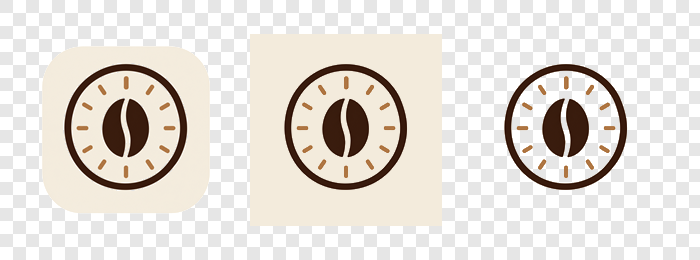
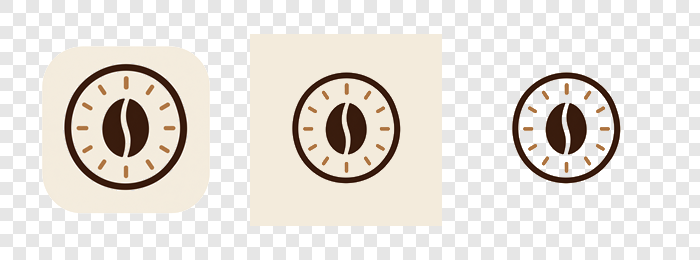
fix: 缩小应用图标中间图案（自适应前景按画布 88% 缩放）
测评反馈「app 图标的图像过大了」。

根因：自适应图标画在 108dp 画布上，但系统只显示中间一块 —— 圆形遮罩只有
72/108 ≈ 67%，MIUI 的圆角方形约 78%。而脚本把原图铺满了整个画布，深棕圆环
占到画布的 ~85%，裁切之后几乎贴到遮罩边缘（四周只剩 2～5%）。

- `make_app_icons.ps1` 新增 `$foregroundKeep = 0.88`：自适应前景把原图缩到
  画布的 88% 再居中，圆环回到 ~75%、四周约 10% 余量。传统图标不动
  （它本来就是整块圆角方块，位置合适）。
- 顺手修掉一个真实缺陷：`Key-OutPixels` 会把**已经透明**的像素按亮度重写成
  不透明（清空的像素是 (0,0,0,0)，亮度 0 → 被判成「很暗的内容」）。
  前景铺满画布时看不出来，一旦缩图，留出的空白就会变成黑方块。
  两个预览脚本里的同一份函数也一并修掉。
- M2.8 设计稿里写的「内容缩放 0.72」其实从没落实，补了一条修订说明。
- 新增两个决策用预览脚本（不进构建）：
  `tool/icon_scale_preview.ps1`（并排 5 档缩放 × 3 种遮罩）、
  `tool/icon_review_sheet.ps1 -Keep <值>`（选定档位的真实遮罩对照表）。
  `tool/README.md` / `docs/DEVELOPMENT.md` §10 记下缩放理由与预览方法。
- 真机复核：新包覆盖安装后，小米 11 的应用信息页图标＝米白圆角方块 + 圆环 + 豆，
  四周留白正常；APK 包体不变（arm64 21.0MB）。

Changed region(s): [[0.39, 0.2462, 0.6, 0.7385], [0.72, 0.2462, 0.9, 0.7385]]

diff --git a/tool/README.md b/tool/README.md
@@ -22,7 +22,7 @@ powershell -NoProfile -ExecutionPolicy Bypass -File .\tool\make_app_icons.ps1
 | 文件 | 用途 |
 |---|---|
 | `android/app/src/main/res/mipmap-*/ic_launcher.png` | 传统图标（48 / 72 / 96 / 144 / 192 px）。把原图里**圆角方块之外的白色页面**抠成透明，留下米白方块 |
-| `android/app/src/main/res/mipmap-*/ic_launcher_foreground.png` | 自适应图标前景（尺寸为传统图标的 2.25 倍）。把米白背景**也**抠成透明，只留圆环 / 豆 / 刻度点 |
+| `android/app/src/main/res/mipmap-*/ic_launcher_foreground.png` | 自适应图标前景（尺寸为传统图标的 2.25 倍）。把米白背景**也**抠成透明，只留圆环 / 豆 / 刻度点；原图按 `$foregroundKeep` 缩小后居中，四周留出系统裁切要吃的空白 |
 | `assets/icon/app_icon_512.png` | 512px 留档与商店用 |
 | `tool/out/app_icon_preview.png` | 复核用对照表（传统图标 / 前景叠米白底 / 前景叠棋盘格） |
 
@@ -30,6 +30,31 @@ powershell -NoProfile -ExecutionPolicy Bypass -File .\tool\make_app_icons.ps1
 前景把亮度 ≥215 的（页面白 + 米白背景）都去掉，中间一段做线性过渡当作抗锯齿边。
 `res/values/colors.xml` 里的 `ic_launcher_background` 取原图的米白 `#F3EBDC`，
 所以自适应图标裁切后的观感和传统图标一致。
+
+### 前景为什么要缩小（`$foregroundKeep = 0.88`）
+
+自适应图标画在 108dp 画布上，但**系统只显示中间一块**：圆形遮罩只有 72/108 ≈ 67%，
+MIUI 的圆角方形大约 78%。原图铺满整个画布时，深棕圆环会占画布的 ~85%，
+裁切之后几乎贴到遮罩边缘（四周只剩 2～5%），看起来就是「图标太大了」。
+
+`$foregroundKeep` 把原图缩到画布的 88% 再居中，圆环回到画布的 ~75%，
+四周留出 10% 左右的余量。传统图标不动（它本来就是整块圆角方块）。
+想换档位就在脚本里改这一个数字，然后用下面的预览脚本看效果。
+
+### 图标预览脚本（决策用，不进构建）
+
+| 脚本 | 输出 | 用途 |
+|---|---|---|
+| `tool/icon_scale_preview.ps1` | `tool/out/icon_scale_candidates.png` | 一次排开 5 个候选缩放比，每个给「原样 / 圆形遮罩 / 圆角方形遮罩」三视图 |
+| `tool/icon_review_sheet.ps1 -Keep 0.88` | `tool/out/icon_review_keep88.png` | 选定一个缩放比，按真实遮罩形状（方形 / 圆形 / 圆角方形）＋传统图标出对照表 |
+
+```powershell
+powershell -NoProfile -ExecutionPolicy Bypass -File .\tool\icon_review_sheet.ps1 -Keep 0.88
+```
+
+> 这两个脚本里的 `Key-OutPixels` 必须**保留已有透明像素**（`if ($bytes[$i+3] -eq 0) { continue }`）。
+> 抠图前画布被清成 `(0,0,0,0)`，亮度算出来是 0，如果不跳过就会把它当成「很暗的内容」
+> 写成 `alpha=255` —— 于是缩图留出的空白会变成一个**不透明的黑方块**。
 
 ### 重新生成 / 换图
 

diff --git a/docs/CHANGELOG.md b/docs/CHANGELOG.md
@@ -31,6 +31,11 @@
   提示行自动算出**绝对刻度**（`零点 + 圈 × 每圈 click + click`），不用自己心算；
   零点取记录里的**快照**，所以后来改零点不会把老记录的读数重新解释。
   没有这个字段的电动磨退回原来的「研磨刻度」相对展示
+- **应用图标缩小中间图案**：自适应前景原来铺满 108dp 画布，圆环占到 ~85%，
+  而系统只显示中间 67%（圆形遮罩）～78%（MIUI 圆角方形），裁完几乎贴边。
+  改成按画布 88% 缩放居中（圆环回到 ~75%，四周约 10% 余量），传统图标不动。
+  同时修掉抠图脚本的一个缺陷：已透明的像素会被按亮度重新写成不透明黑，
+  缩图留出的空白会变成**黑方块**
 
 ### 修复
 
